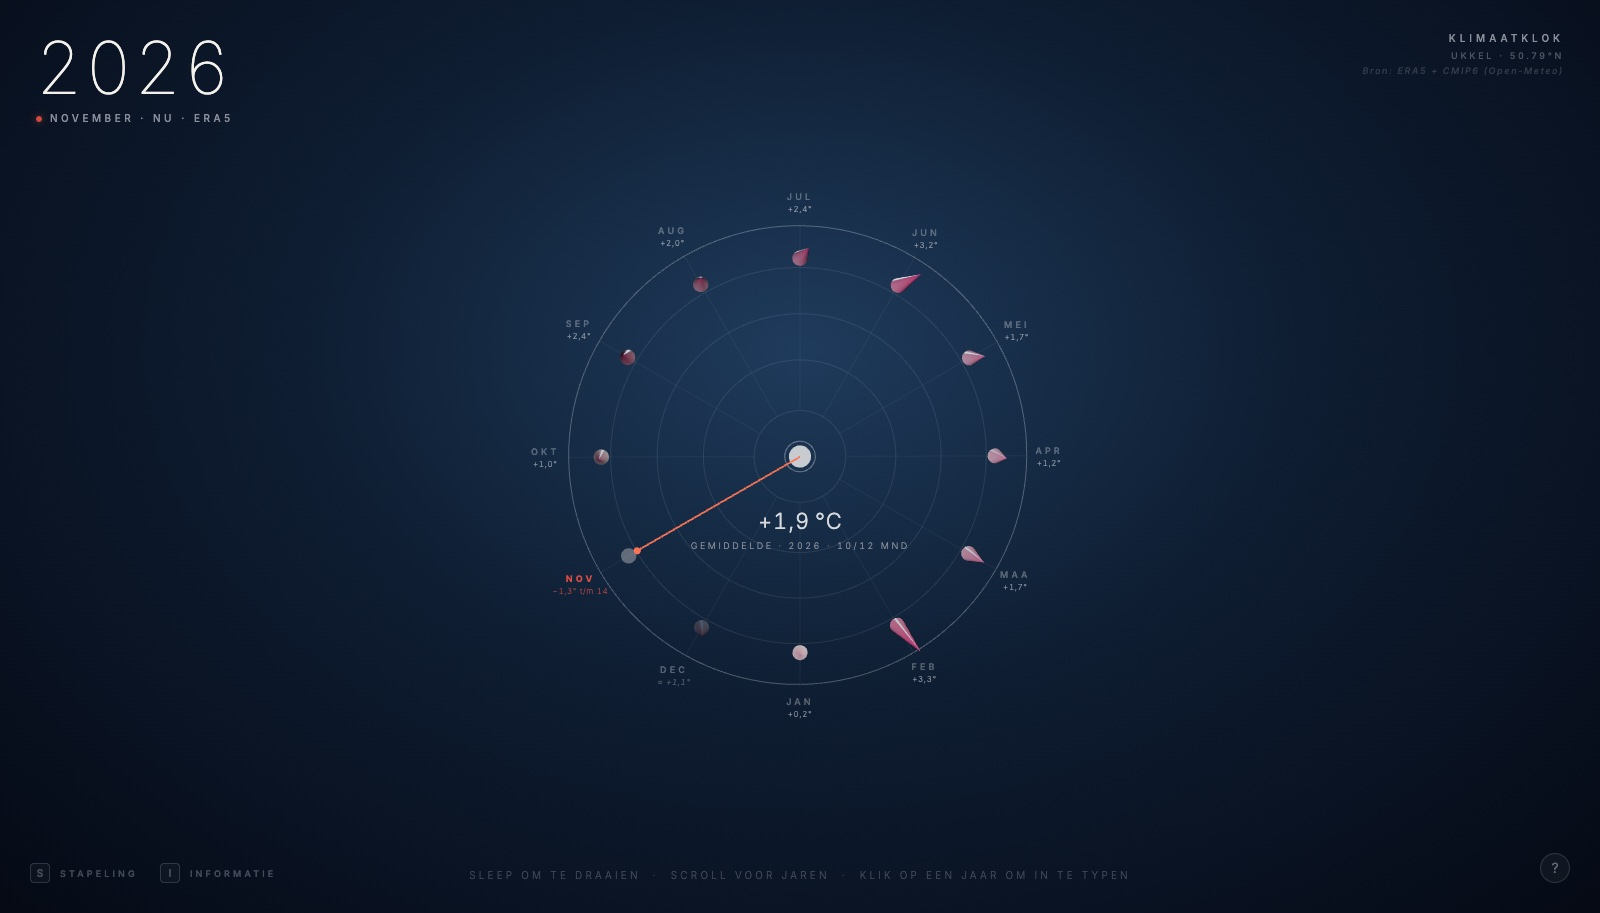
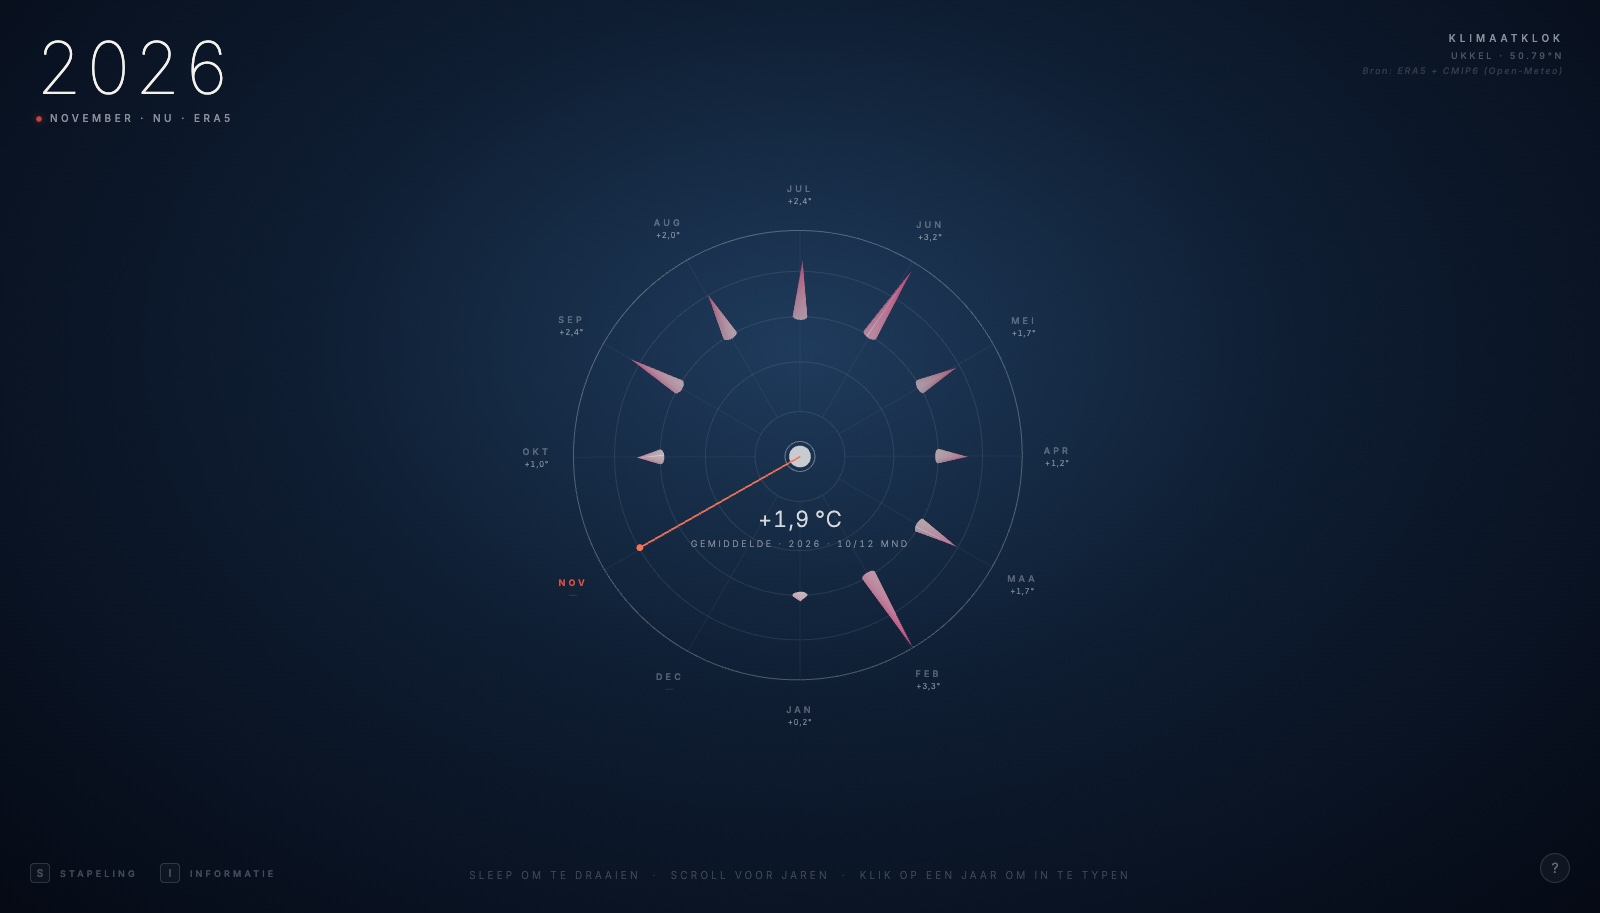
Huidig jaar: alleen afgelopen maanden; kegels leesbaar; 'projectie'
- lopende en komende maanden van het huidige jaar blijven leeg tot de anomalie vaststaat
  (geen voorlopige waarde, geen projectie); nieuw jaar start leeg
- kegels 55° naar buiten gekanteld vanaf de middelste ring: lengte is van voren vergelijkbaar
- 'voorspelling' → 'projectie' (één modelrun); introzin detailpagina gecorrigeerd

diff --git a/main.js b/main.js
@@ -9,8 +9,8 @@ import {
   HUIDIGE_MAAND_INDEX, HUIDIG_JAAR,
   KLIMAATNORM_1991_2020, MAAND_CONTEXT,
   isVoorspelling, maandReeks, generateVerhaal,
-  celStatus, isGemeten, LOPEND_DAGEN
-} from './data.js?v=8';
+  celStatus, isGemeten
+} from './data.js?v=9';
 
 // =====================================================
 //  Renderer + scene + camera
@@ -111,9 +111,14 @@ scene.add(carousel);
 const R = 3.3;
 const SPIKE_BASE_R = R * 0.86;
 const SCALE_FACTOR = 0.70;
+// Klok: kegels starten op de middelste ring (0,62 R); 1 °C = 0,40 eenheden.
+// Bij 55° kanteling valt +4 °C ongeveer op de buitenste ring.
+const KLOK_BASE_R = R * 0.62;
+const KLOK_SCALE = 0.40;
 const CONE_RADIUS = 0.11;
 const MIN_SPIKE = 0.10;
 const MAG_REF = 4.0;
+const SPIKE_TILT = THREE.MathUtils.degToRad(55); // 0 = recht naar de kijker, 90 = plat in het vlak
 
 // Phase 1 — luminous materiality constants
 const EMISSIVE_EXP = 2.8;       // exponential curve for emissive intensity
@@ -155,15 +160,10 @@ function spikeColors(anomaly, year, status = celStatus(year, 0)) {
 // =====================================================
 //  Klok factory — build one full clock for a year
 // =====================================================
-function opacityMul(year, status) {
-  if (status === 'lopend') return 0.55;
-  if (status === 'projectie' && year <= HUIDIG_JAAR) return 0.35;
-  return 1;
-}
 
 function buildSpike(anomaly, year, monthIdx, isCurrentYearAndMonth, status = 'gemeten') {
   const angle = -Math.PI / 2 + (monthIdx / 12) * Math.PI * 2;
-  const length = Math.max(Math.abs(anomaly) * SCALE_FACTOR, MIN_SPIKE);
+  const length = Math.max(Math.abs(anomaly) * KLOK_SCALE, MIN_SPIKE);
   const isWarm = anomaly >= 0;
   const mag = Math.min(Math.abs(anomaly) / MAG_REF, 1); // 0..1 normalized magnitude
 
@@ -201,8 +201,7 @@ function buildSpike(anomaly, year, monthIdx, isCurrentYearAndMonth, status = 'ge
   const mat = new THREE.MeshPhysicalMaterial({
     color: 0xffffff, vertexColors: true,
     transparent: true,
-    // projectie binnen het huidige jaar en de lopende maand: zichtbaar maar teruggetrokken
-    opacity: (0.92 - mag * 0.15) * opacityMul(year, status),
+    opacity: 0.92 - mag * 0.15,
     roughness: _lerp(0.35, 0.12, mag),    // hotter = smoother glass
     metalness: 0.0,
     clearcoat: 1.0,
@@ -220,12 +219,21 @@ function buildSpike(anomaly, year, monthIdx, isCurrentYearAndMonth, status = 'ge
 
   const cone = new THREE.Mesh(geo, mat);
   cone.renderOrder = isCurrentYearAndMonth ? 10 : 0;
-  cone.rotation.x = isWarm ? Math.PI / 2 : -Math.PI / 2;
+  // Kegel half naar buiten, half naar de kijker gekanteld: zo blijft de 3D-diepte,
+  // maar is de lengte (= anomalie) ook van voren te vergelijken.
+  // Warm: naar buiten + naar voren. Koud: naar binnen + naar achter.
+  const sgn = isWarm ? 1 : -1;
+  const dir = new THREE.Vector3(
+    Math.cos(angle) * Math.sin(SPIKE_TILT),
+    Math.sin(angle) * Math.sin(SPIKE_TILT),
+    Math.cos(SPIKE_TILT)
+  ).multiplyScalar(sgn).normalize();
+  cone.quaternion.setFromUnitVectors(new THREE.Vector3(0, 1, 0), dir);
   cone.position.set(
-    SPIKE_BASE_R * Math.cos(angle),
-    SPIKE_BASE_R * Math.sin(angle),
-    (isWarm ? 1 : -1) * length / 2
-  );
+    KLOK_BASE_R * Math.cos(angle),
+    KLOK_BASE_R * Math.sin(angle),
+    0
+  ).addScaledVector(dir, length / 2);
   cone.userData = {
     year, monthIdx, anomaly, isWarm, mag, status,
     baseOpacity: mat.opacity,
@@ -585,7 +593,7 @@ function updateYearAvg() {
   const avg = valid.reduce((a, b) => a + b, 0) / valid.length;
   const sign = avg >= 0 ? '+' : '−';
   const label = isVoorspelling(currentYear)
-    ? `VOORSPELD GEMIDDELDE · ${currentYear}`
+    ? `PROJECTIE · GEMIDDELDE · ${currentYear}`
     : (valid.length < 12
       ? `GEMIDDELDE · ${currentYear} · ${valid.length}/12 MND`
       : `JAARGEMIDDELDE · ${currentYear}`);
@@ -606,7 +614,7 @@ function updateYearAvg() {
 //  Month labels — overlay synced to currently focused clock
 // =====================================================
 const labelPoints = [];
-const LABEL_R = R * 1.10;
+const LABEL_R = R * 1.16;
 for (let m = 0; m < 12; m++) {
   const angle = -Math.PI / 2 + (m / 12) * Math.PI * 2;
   const el = document.createElement('div');
@@ -620,7 +628,7 @@ for (let m = 0; m < 12; m++) {
   });
 }
 
-// Kleine waarde onder elke maandnaam: +3,4° · ≈ +1,2° (projectie) · −0,3° t/m 19 (lopend)
+// Kleine waarde onder elke maandnaam: +3,4° (gemeten) · ≈ +1,2° (projectie) · — (nog niet bekend)
 const fmtGraad = v => (v >= 0 ? '+' : '−') + Math.abs(v).toFixed(1).replace('.', ',') + '°';
 let labelsVoorJaar = null;
 function updateLabelValues() {
@@ -633,7 +641,6 @@ function updateLabelValues() {
     lp.el.dataset.status = st || 'leeg';
     if (v == null) { span.textContent = '—'; return; }
     if (st === 'projectie') span.textContent = '≈ ' + fmtGraad(v);
-    else if (st === 'lopend') span.textContent = `${fmtGraad(v)} t/m ${LOPEND_DAGEN}`;
     else span.textContent = fmtGraad(v);
   });
 }
@@ -912,7 +919,7 @@ const detailEl = document.getElementById('detail');
 
 function computeMonthStats(monthIdx) {
   const series = maandReeks(monthIdx);
-  const observed = series.filter(s => !s.voorspelling && !s.voorlopig && s.anomaly != null && !isNaN(s.anomaly));
+  const observed = series.filter(s => !s.voorspelling && s.anomaly != null && !isNaN(s.anomaly));
   if (observed.length === 0) return null;
 
   const vals = observed.map(s => s.anomaly);
@@ -942,7 +949,7 @@ function computeMonthStats(monthIdx) {
 
 function openDetail({ year, monthIdx, anomaly, isWarm }) {
   const st = celStatus(year, monthIdx);
-  document.getElementById('dt-year').textContent = year + (st === 'projectie' ? ' · projectie' : st === 'lopend' ? ' · voorlopig' : '');
+  document.getElementById('dt-year').textContent = year + (st === 'projectie' ? ' · projectie' : '');
   document.getElementById('dt-month').textContent = MAANDEN_VOL[monthIdx];
   const anomEl = document.getElementById('dt-anom');
   anomEl.textContent = (anomaly >= 0 ? '+' : '') + anomaly.toFixed(1).replace('.', ',') + ' °C';
@@ -1111,7 +1118,7 @@ function renderMonthChart(monthIdx, highlightYear) {
   sepLbl.setAttribute('fill', 'rgba(200,212,232,0.7)');
   sepLbl.setAttribute('font-size', '9');
   sepLbl.setAttribute('letter-spacing', '0.18em');
-  sepLbl.textContent = 'VOORSPELLING →';
+  sepLbl.textContent = 'PROJECTIE →';
   svg.appendChild(sepLbl);
 
   // Feature A2 — Chart tooltip

diff --git a/data.js b/data.js
@@ -6,13 +6,14 @@
  * data/klimaat.json  — volledige gemeten maanden (ERA5) + projectie (CMIP6
  *                       EC-Earth3P-HR). Elke maand ververst door een GitHub
  *                       Action (scripts/update-data.mjs).
- * Live aanvulling    — maanden na de laatste in het JSON-bestand (o.a. de
- *                       lopende maand) haalt de browser zelf bij Open-Meteo.
+ * Live aanvulling    — een maand die net voorbij is maar nog niet in het
+ *                       JSON-bestand staat, haalt de browser zelf bij Open-Meteo.
  *
  * Elke cel krijgt een status:
- *   'gemeten'   volledige maand, ERA5
- *   'lopend'    huidige maand t/m gisteren, voorlopig
- *   'projectie' nog niet gemeten → modelwaarde
+ *   'gemeten'   volledige, afgelopen maand (ERA5)
+ *   'projectie' maand in een TOEKOMSTIG jaar → modelwaarde
+ *   null        lopende of komende maand van het huidige jaar → blijft leeg
+ *               tot de maand voorbij is en de anomalie vaststaat
  */
 
 const LAT = 50.79, LON = 4.36;
@@ -33,12 +34,14 @@ const HUIDIG_JAAR = _now.getFullYear();
 const BRON = await fetch('data/klimaat.json', { cache: 'no-cache' }).then(r => r.json());
 const KLIMAATNORM_1991_2020 = BRON.norm;
 
-// --- 2. Live aanvulling: van de maand na BRON.laatsteMaand t/m gisteren ---
+// --- 2. Live aanvulling: maanden die net voorbij zijn maar nog niet in het
+//        JSON-bestand staan (de eerste dagen van een nieuwe maand). Alleen
+//        volledige maanden worden gebruikt. ---
 const LIVE = {};        // 'YYYY-MM' → { anomalie, dagen, volledig }
 await (async () => {
   const [lj, lm] = BRON.laatsteMaand.split('-').map(Number);
   const start = new Date(Date.UTC(lj, lm, 1));                 // eerste dag ná laatsteMaand
-  const eind = new Date(Date.UTC(_now.getFullYear(), _now.getMonth(), _now.getDate() - 1));
+  const eind = new Date(Date.UTC(_now.getFullYear(), _now.getMonth(), 0));  // laatste dag vorige maand
   if (start > eind) return;
   const iso = d => d.toISOString().slice(0, 10);
   const url = `https://archive-api.open-meteo.com/v1/archive?latitude=${LAT}&longitude=${LON}`
@@ -69,7 +72,6 @@ await (async () => {
 // --- 3. Raster opbouwen: DATA[jaar][maand] + STATUS[jaar][maand] ---
 const DATA = {}, STATUS = {};
 const isVerleden = (y, m) => y < HUIDIG_JAAR || (y === HUIDIG_JAAR && m < HUIDIGE_MAAND_INDEX);
-const isNu = (y, m) => y === HUIDIG_JAAR && m === HUIDIGE_MAAND_INDEX;
 for (let y = JAAR_MIN; y <= JAAR_MAX; y++) {
   DATA[y] = Array(12).fill(null);
   STATUS[y] = Array(12).fill(null);
@@ -77,14 +79,11 @@ for (let y = JAAR_MIN; y <= JAAR_MAX; y++) {
     const g = BRON.gemeten[y]?.[m];
     const live = LIVE[`${y}-${String(m + 1).padStart(2, '0')}`];
     const p = BRON.projectie[y]?.[m];
-    if (g != null)                          { DATA[y][m] = g; STATUS[y][m] = 'gemeten'; }
-    else if (live?.volledig)                { DATA[y][m] = live.anomalie; STATUS[y][m] = 'gemeten'; }
-    else if (live && (isNu(y, m) || isVerleden(y, m))) { DATA[y][m] = live.anomalie; STATUS[y][m] = 'lopend'; }
-    else if (!isVerleden(y, m) && p != null) { DATA[y][m] = p; STATUS[y][m] = 'projectie'; }
+    if (g != null)                       { DATA[y][m] = g; STATUS[y][m] = 'gemeten'; }
+    else if (live?.volledig && isVerleden(y, m)) { DATA[y][m] = live.anomalie; STATUS[y][m] = 'gemeten'; }
+    else if (y > HUIDIG_JAAR && p != null) { DATA[y][m] = p; STATUS[y][m] = 'projectie'; }
   }
 }
-// Dagen in de lopende maand (voor het label "t/m 19/11")
-const LOPEND_DAGEN = LIVE[`${HUIDIG_JAAR}-${String(HUIDIGE_MAAND_INDEX + 1).padStart(2, '0')}`]?.dagen || 0;
 
 const celStatus = (y, m) => STATUS[y]?.[m] ?? null;
 const isGemeten = (y, m) => celStatus(y, m) === 'gemeten';
@@ -100,7 +99,7 @@ function maandReeks(monthIdx) {
   const reeks = [];
   for (let y = JAAR_MIN; y <= JAAR_MAX; y++) {
     const st = celStatus(y, monthIdx);
-    reeks.push({ year: y, anomaly: DATA[y][monthIdx], voorspelling: st === 'projectie', voorlopig: st === 'lopend' });
+    reeks.push({ year: y, anomaly: DATA[y][monthIdx], voorspelling: st === 'projectie' });
   }
   return reeks;
 }
@@ -152,8 +151,6 @@ function generateVerhaal(monthIdx, year, anomaly) {
   let zin1;
   if (isVoorsp) {
     zin1 = `De CMIP6-projectie (EC-Earth3P-HR, SSP5-8.5) suggereert dat ${maand.toLowerCase()} ${year} ${intensiteit} zou zijn in Ukkel, met een anomalie van ${anomaly >= 0 ? '+' : ''}${anomaly.toFixed(1).replace('.', ',')} °C ten opzichte van de klimaatnorm 1991–2020.`;
-  } else if (status === 'lopend') {
-    zin1 = `${maand} ${year} is nog bezig. Over de eerste ${LOPEND_DAGEN} dagen lag de temperatuur in Ukkel ${absAnom.toFixed(1).replace('.', ',')} °C ${sign ? 'boven' : 'onder'} de klimaatnorm van ${KLIMAATNORM_1991_2020[monthIdx].toFixed(1).replace('.', ',')} °C — een voorlopig cijfer.`;
   } else {
     zin1 = `${maand} ${year} was ${intensiteit} in Ukkel — de maandgemiddelde temperatuur lag ${absAnom.toFixed(1).replace('.', ',')} °C ${sign ? 'boven' : 'onder'} de klimaatnorm van ${KLIMAATNORM_1991_2020[monthIdx].toFixed(1).replace('.', ',')} °C (1991–2020).`;
   }
@@ -162,7 +159,7 @@ function generateVerhaal(monthIdx, year, anomaly) {
 }
 
 export {
-  DATA, STATUS, celStatus, isGemeten, LOPEND_DAGEN, KLIMAATNORM_1991_2020,
+  DATA, STATUS, celStatus, isGemeten, KLIMAATNORM_1991_2020,
   JAAR_MIN, JAAR_MAX, LAATSTE_GEMETEN_JAAR,
   HUIDIGE_MAAND_INDEX, HUIDIG_JAAR,
   MAANDEN, MAANDEN_VOL, MAAND_CONTEXT,

diff --git a/index.html b/index.html
@@ -5,7 +5,7 @@
 <meta name="viewport" content="width=device-width,initial-scale=1,maximum-scale=1,user-scalable=no">
 <title>Klimaatklok · Ukkel</title>
 <meta name="description" content="Interactieve 3D-klimaatklok voor Ukkel, België — maandelijkse temperatuuranomalieën van 2015 tot 2040.">
-<link rel="stylesheet" href="style.css?v=8">
+<link rel="stylesheet" href="style.css?v=9">
 <script type="importmap">
 {
   "imports": {
@@ -57,12 +57,12 @@
   <div class="detail-body">
     <h3>Deze maand door de jaren heen</h3>
     <p class="dt-intro">
-      Hoe heeft deze maand zich de afgelopen 25 jaar gedragen — en wat zegt de extrapolatie?
+      Hoe heeft deze maand zich sinds 2015 gedragen — en wat geeft het klimaatmodel tot 2040?
     </p>
     <div id="month-chart"></div>
     <p class="dt-foot">
       <span class="sw past"></span> gemeten
-      <span class="sw future"></span> voorspeld
+      <span class="sw future"></span> projectie (één modelrun)
       <span class="sw avg"></span> 10-jaars gemiddelde
     </p>
 
@@ -262,6 +262,6 @@
   </div>
 </div>
 
-<script type="module" src="main.js?v=8"></script>
+<script type="module" src="main.js?v=9"></script>
 </body>
 </html>

diff --git a/style.css b/style.css
@@ -1067,6 +1067,5 @@ body.intro-done #info-indicator { opacity: 0.6; }
   text-transform: none;
 }
 .month-label[data-status="projectie"] .ml-waarde { color: rgba(255,255,255,0.3); font-style: italic; }
-.month-label[data-status="lopend"] .ml-waarde { color: var(--alert); opacity: 0.8; }
 .month-label[data-status="leeg"] .ml-waarde { opacity: 0.25; }
 @media (max-width: 600px) { .month-label .ml-waarde { font-size: 7px; } }

diff --git a/README.md b/README.md
@@ -8,19 +8,19 @@ Monthly temperature anomalies for Uccle (Ukkel), Belgium, drawn as a ring of clo
 
 ## What it shows
 
-Every month on every clock has one of three states:
+Each cone is one month. It leans outward and toward you when the month was warmer than normal, and inward and away when it was colder. Its length is the anomaly in °C, and the small number under each month label gives the exact value.
 
-- **Measured:** a complete month from ERA5 reanalysis via the [Open-Meteo Archive API](https://open-meteo.com/en/docs/historical-weather-api).
-- **Running:** the current month up to yesterday, fetched live by the browser and marked as provisional (`−0,3° t/m 19`).
-- **Projected:** any month that hasn't happened yet, taken from one CMIP6 HighResMIP model run (EC-Earth3P-HR) via the [Open-Meteo Climate API](https://open-meteo.com/en/docs/climate-api). In the current year these are drawn faint and marked `≈`. A single model run gives a plausible path, not a forecast for a specific month.
+- **Measured (2015 → last complete month):** ERA5 reanalysis via the [Open-Meteo Archive API](https://open-meteo.com/en/docs/historical-weather-api).
+- **Current year:** only months that have ended are shown. The running month and the months after it stay empty until their anomaly is known.
+- **Future years (projection):** one CMIP6 HighResMIP model run (EC-Earth3P-HR) via the [Open-Meteo Climate API](https://open-meteo.com/en/docs/climate-api), marked `≈`. A single model run gives a plausible path, not a forecast for a specific month.
 
-The anomaly is the monthly mean minus the 1991–2020 normal of the same source: ERA5 for measured months, the model's own 1991–2020 climate for projections (this removes the model's bias of up to 0.9 °C). Measured values use `models=era5` explicitly; checked against the Uccle weather station (Meteostat 06447) they agree within 0.17 °C on average over 124 months. Each month label carries its value in small type.
+The anomaly is the monthly mean minus the 1991–2020 normal of the same source. Measured months are compared with ERA5 1991–2020, and the projection with the model's own 1991–2020 climate, which removes the model's bias of up to 0.9 °C. Measured values use `models=era5` explicitly. Checked against the Uccle weather station (Meteostat 06447), they differ by 0.18 °C on average over 124 months.
 
 ## How it stays current
 
-1. **Monthly.** On the 3rd of every month a GitHub Action (`.github/workflows/update-data.yml`) runs `scripts/update-data.mjs`. The script rewrites `data/klimaat.json` with every complete measured month plus the projection, and commits only when something changed. GitHub Pages then redeploys.
-2. **Live.** On load, `data.js` fetches the JSON with `cache: 'no-cache'`, so visitors never see an old copy. It also asks Open-Meteo for every day after the last month in the JSON. That fills the running month, and it also fills last month during the first days of a new month, before the Action has run.
-3. **New year.** On 1 January the hand moves to the new year's clock. Its months start out as projections and turn into measurements one by one. The previous year's December is completed live and saved to the JSON on 3 January.
+1. **Monthly.** On the 3rd of every month a GitHub Action (`.github/workflows/update-data.yml`) runs `scripts/update-data.mjs`. The script rewrites `data/klimaat.json` and commits only when something changed. GitHub Pages then redeploys.
+2. **On load.** `data.js` fetches the JSON with `cache: 'no-cache'`, so visitors never see an old copy. If a month has just ended but isn't in the JSON yet, the browser fetches that complete month from Open-Meteo itself.
+3. **New year.** On 1 January the hand moves to the new year's clock, which starts empty. January appears once it has ended, in early February, and the other months follow one by one.
 
 To test another date, add `?nu=2027-01-02` to the URL.
 
